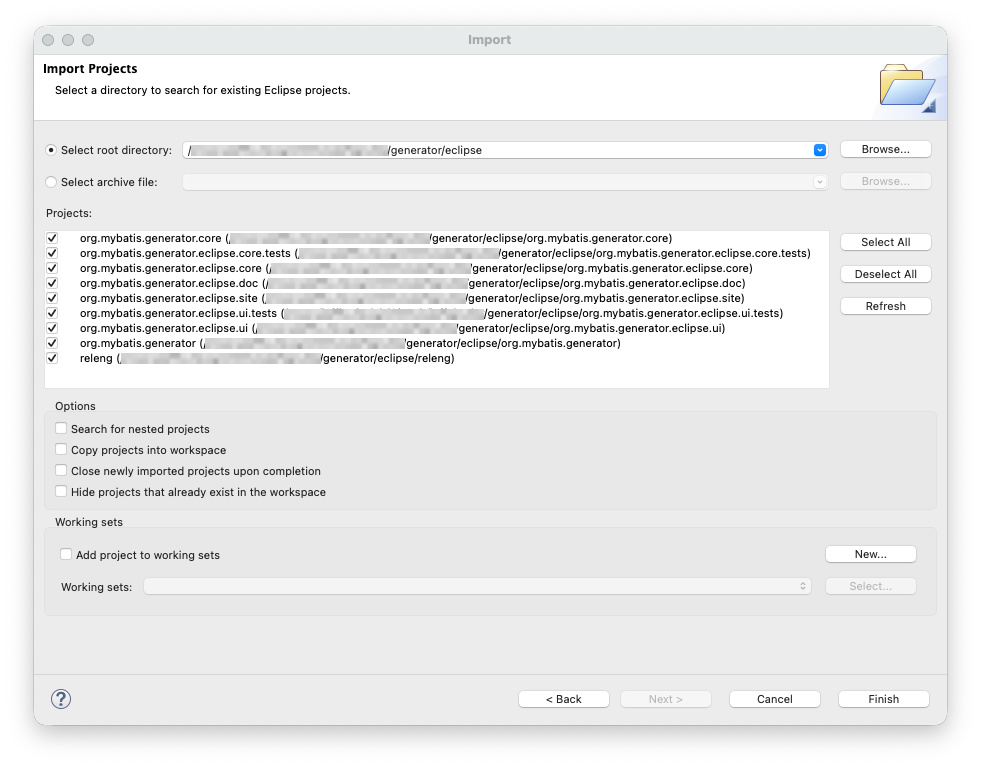
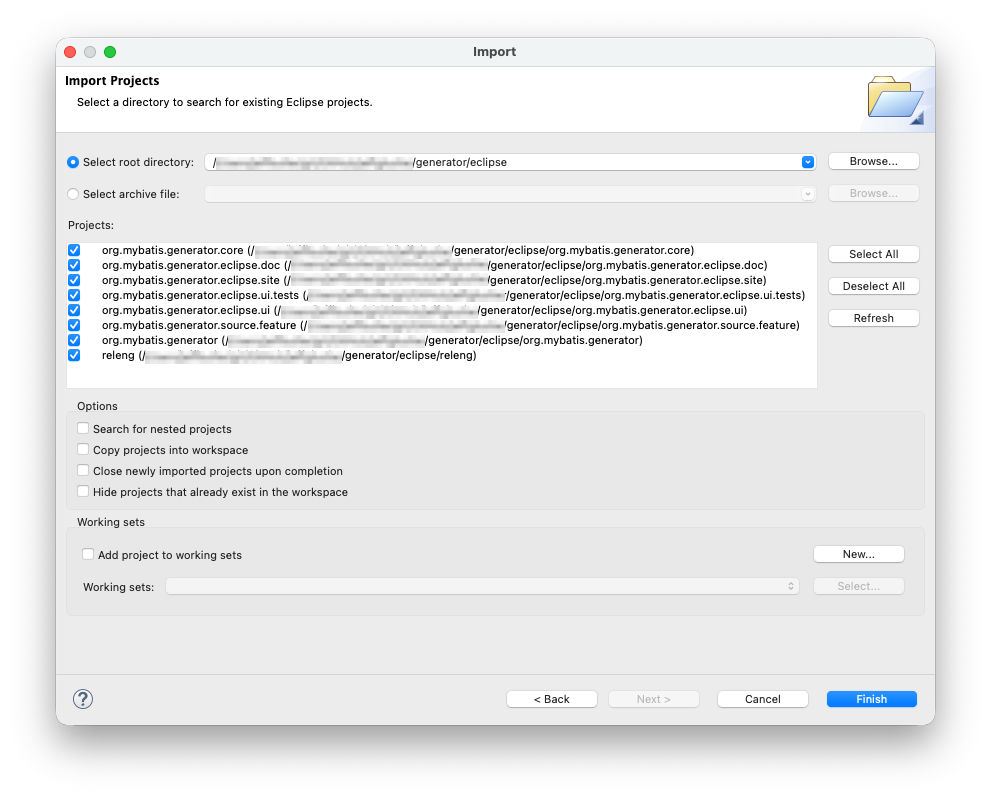
Documentation Updates

diff --git a/eclipse/org.mybatis.generator.eclipse.doc/html-src/eclipseui/buildingFromSource.html b/eclipse/org.mybatis.generator.eclipse.doc/html-src/eclipseui/buildingFromSource.html
@@ -37,10 +37,10 @@ projects into your IDE as Maven projects - it will not work. The projects need t
 regular Eclipse projects.</p>
 
 <h2>Feature Structure</h2>
-<p>There are nine total projects that makeup the feature. Some projects are just for build support and testing.</p> 
-<p>The published MBG feature is composed of five different Eclipse projects - a feature project,
-and four plugin projects.
-The feature project groups the four plugins together for easy installation.
+<p>There are eight total projects that makeup the feature. Some projects are just for build support and testing.</p> 
+<p>The published MBG feature is composed of five different Eclipse projects - two feature projects,
+and three plugin projects.
+One feature project groups the three plugins together for easy installation, the second feature project contains source code.
 Those projects are structured as follows:</p>
 <table cellspacing="0" cellpadding="5" border="1">
   <tr>
@@ -49,7 +49,11 @@ Those projects are structured as follows:</p>
   </tr>
   <tr>
     <td><code>org.mybatis.generator</code></td>
-    <td>This project is the Eclipse feature project for MBG.</td>
+    <td>This project is the main Eclipse feature project for MBG.</td>
+  </tr>
+  <tr>
+    <td><code>org.mybatis.generator.source.feature</code></td>
+    <td>This project is the source feature for the plugin code.</td>
   </tr>
   <tr>
     <td><code>org.mybatis.generator.core</code></td>
@@ -58,12 +62,6 @@ Those projects are structured as follows:</p>
       There is an Ant build file in this plugin (copySource.xml) that performs the copy.
       If you find a bug in the core MBG, you must make the correction in the
       core source tree - NOT this plugin.</td>
-  </tr>
-  <tr>
-    <td><code>org.mybatis.generator.eclipse.core</code></td>
-    <td>This plugin holds Java support classes for the other plugins.  This plugin does not contribute
-        to the Eclipse user interface.  This plugin includes classes for Java file
-        merging, and Eclipse implementations of the MBG callback interfaces.</td>
   </tr>
   <tr>
     <td><code>org.mybatis.generator.eclipse.doc</code></td>
@@ -89,7 +87,7 @@ Those projects are structured as follows:</p>
 </table>
 
 <h2>Other Projects</h2>
-<p>There are four other Eclipse projects that are used in the build of the feature:</p>
+<p>There are three other Eclipse projects that are used in the build of the feature:</p>
 <table cellspacing="0" cellpadding="5" border="1">
   <tr>
     <th>Project</th>
@@ -98,11 +96,6 @@ Those projects are structured as follows:</p>
   <tr>
     <td><code>org.mybatis.generator.eclipse.site</code></td>
     <td>This project is a P2 publishing site that is used to publish the feature.</td>
-  </tr>
-  <tr>
-    <td><code>org.mybatis.generator.eclipse.core.tests</code></td>
-    <td>This project is a plugin fragment that holds unit tests for the
-        org.mybatis.generator.eclipse.core plugin.</td>
   </tr>
   <tr>
     <td><code>org.mybatis.generator.eclipse.ui.tests</code></td>
@@ -139,7 +132,7 @@ familiar with git and the Eclipse plug-in development environment (PDE).</p>
         (File&gt;Import&gt;General&gt;Existing Projects into Workspace)
       </li>
       <li>Set the root directory to the "eclipse" sub-directory in your Git clone</li>
-      <li>Select all nine projects, do not copy the projects into
+      <li>Select all eight projects, do not copy the projects into
         your workspace.
         The filled out wizard looks similar to this: <br />
         <p><img src="importWizard.png" alt="Eclipse Project Import Wizard"/></p>
@@ -147,11 +140,11 @@ familiar with git and the Eclipse plug-in development environment (PDE).</p>
       <li>Press "Finish", wait for the workspace to build.</li>
     </ol>
   </li>
-  <li>The project includes Eclipse target platform definition files. The purpose is to set the minimum version
+  <li>The "releng" project includes an Eclipse target platform definition file. The purpose is to set the minimum version
    of Eclipse supported by the feature and to ensure that you do not inadvertently use Eclipse features from later
    versions. The target platform files also provide access to dependencies needed during the build. 
-   Target platform files are in the <code>releng</code> project. To activate
-   the target platform, open the proper target file and click on the link that says "Set as active target platform". This action
+   To activate
+   the target platform, open the target file and click on the link that says "Set as active target platform". This action
    may take a few minutes to complete. The README in the releng project contains information about which target platform file to use.
   </li>
   <li>You will likely have workspace errors due to missing source code in the
@@ -222,20 +215,13 @@ familiar with git and the Eclipse plug-in development environment (PDE).</p>
       to the source lookup path to solve that issue.</p>
     </td>
   </tr>
-  <tr>
-    <td><code>org.mybatis.generator.eclipse.core.merge.JavaFileMerger</code></td>
-    <td>This class implements the Java file merge function.  You can set a breakpoint
-      in the <code>getMergedSource</code> method to follow the merging process.
-    </td>
-  </tr>
 </table>
 
 <h2>Running the Unit Tests</h2>
-<p>The plugin fragment project <code>org.mybatis.generator.eclipse.core.tests</code>
+<p>The plugin fragment project <code>org.mybatis.generator.eclipse.ui.tests</code>
 contains unit tests for many of the classes in the
-<code>org.mybatis.generator.eclipse.core</code> project.
-These tests cover the core functionality of Java code merging and workspace file resolution
-that is an extra capability added by the eclipse feature.</p>
+<code>org.mybatis.generator.eclipse.ui</code> project.
+These tests cover the core plugin functionality of workspace file resolution.</p>
 <p>The tests will be run during a maven build of the feature, but you can also run them
 directly in eclipse. Running these unit tests is similar to running regular unit tests in
 eclipse with the following exceptions:</p>

diff --git a/eclipse/org.mybatis.generator.eclipse.doc/html-src/eclipseui/manualTesting.html b/eclipse/org.mybatis.generator.eclipse.doc/html-src/eclipseui/manualTesting.html
@@ -169,9 +169,9 @@ create table mbgtest.i (id int not null, description varchar(50), primary key(id
 create table mbgtest.j (id int not null, description varchar(50), primary key(id));
       </pre>
     </li>
-    <li>Open the launch configuration for this new configuration file.  The launch
+    <li>Open the run configuration for this new configuration file.  The run
         configuration should be named MBGTest-generatorConfig.xml</li>
-    <li>Alter the launch configuration to run the script before code generation:
+    <li>Alter the run configuration to run the script before code generation:
       <ul>
         <li>Open the SQL Script tab</li>
         <li>Use the "Workspace..." button to navigate to the new SQL script</li>
@@ -184,7 +184,7 @@ create table mbgtest.j (id int not null, description varchar(50), primary key(id
         <li>Add an environment variable - set "driver" to "org.hsqldb.jdbcDriver"</li>
       </ul>
     </li>
-    <li>Run the launch configuration</li>
+    <li>Run the run configuration</li>
     <li>Verify that code is generated in the two different source folders.  Code for table "a"
         should be in the "src" folder, code for tables "b" through "j" should be in the
         "generatedsrc" folder.  Verify that there are no compilation errors or warnings.</li>
@@ -214,7 +214,7 @@ create table mbgtest.j (id int not null, description varchar(50), primary key(id
   <li>Right click on the configuration file, and then
       take the option "Run As&gt;Run MyBatis Generator"</li>
   <li>Verify that <code>gen.model.A</code> now extends <code>BaseModel</code>. You should not have needed to
-      alter the launch configuration classpath - the launch configuration automatically adds the project
+      alter the run configuration classpath - the run configuration automatically adds the project
       to the classpath of the generator.</li>
   <li>Also verify that there are no errors in <code>gen.model.A</code> - the generator
      should not have generated a get and set method that override the final
@@ -255,7 +255,7 @@ create table mbgtest.j (id int not null, description varchar(50), primary key(id
   <li>Delete the Java class <code>gen.src.model.A</code>.  There will now be errors in the
       workspace.</li>
   <li>Right click on the new <code>build.xml</code> file, then select the
-      menu option "Run As&gt;Ant Build...".  You should see the Ant launch configuration
+      menu option "Run As&gt;Ant Build...".  You should see the Ant run configuration
       dialog open.</li>
   <li>Select the "JRE" tab, then select the "Run in the same JRE as the workspace" radio
       button.</li>
@@ -266,7 +266,7 @@ create table mbgtest.j (id int not null, description varchar(50), primary key(id
     JRE as the workspace. 
   </li>
   <li>Right click on the new <code>build.xml</code> file, then select the
-      menu option "Run As&gt;Ant Build...".  You should see the Ant launch configuration
+      menu option "Run As&gt;Ant Build...".  You should see the Ant run configuration
       dialog open.</li>
   <li>Select the "Classpath" tab, then add the HSQLDB driver to "User Entries"</li>
   <li>Press the "Run" button</li>

diff --git a/eclipse/org.mybatis.generator.eclipse.doc/html-src/eclipseui/publishing.html b/eclipse/org.mybatis.generator.eclipse.doc/html-src/eclipseui/publishing.html
@@ -47,17 +47,14 @@ access when running this build.</p>
        the updated artifacts for uploading to GitHub.
    </li>
    <li>Copy all the files from <code>target/p2-composite-repo</code> into your git clone of the update site,
-	   then commit the changes. There are typically 17 files uploaded.</li>
+	   then commit the changes. There are typically 17-20 files uploaded.</li>
    <li>After the version is published, you should update the version number in the
        following files:
        <ul>
          <li><code>org.mybatis.generator/feature.xml</code></li>
+		 <li><code>org.mybatis.generator.source.feature/feature.xml</code></li>
          <li><code>org.mybatis.generator.core/META-INF/MANIFEST.MF</code></li>
          <li><code>org.mybatis.generator.core/pom.xml</code></li>
-         <li><code>org.mybatis.generator.eclipse.core/META-INF/MANIFEST.MF</code></li>
-         <li><code>org.mybatis.generator.eclipse.core/pom.xml</code></li>
-         <li><code>org.mybatis.generator.eclipse.core.tests/META-INF/MANIFEST.MF</code></li>
-         <li><code>org.mybatis.generator.eclipse.core.tests/pom.xml</code></li>
          <li><code>org.mybatis.generator.eclipse.doc/META-INF/MANIFEST.MF</code></li>
          <li><code>org.mybatis.generator.eclipse.doc/pom.xml</code></li>
          <li><code>org.mybatis.generator.eclipse.parent/pom.xml</code></li>

diff --git a/eclipse/org.mybatis.generator.eclipse.doc/html-src/eclipseui/releasenotes.html b/eclipse/org.mybatis.generator.eclipse.doc/html-src/eclipseui/releasenotes.html
@@ -26,6 +26,20 @@
 </head>
 <body>
 <h1>MyBatis Generator Eclipse Feature Release Notes</h1>
+<h2>Version 2.0.0</h2>
+<ul>
+  <li>We're removed the Eclipse based Java merger in favor of the Java merger in the base project which is well tested and more capable
+    than the older Eclipse merger. You will hopefully experience no impact form this. Please let us know if something is broken.
+  </li>
+  <li>We've removed the custom logging implementation selection buttons in the run configuration. The core product has standardized on
+    commons-logging which should allow you to configure logging any way you desire.
+  </li>
+  <li>The core library has some runtime dependencies on libraries that are not included in most Eclipse installations. You will see that
+	some dependency plugins are also installed when you install the feature.</li>
+  <li>The Generator feature now requires Java 17 minimum</li>
+  <li>The minimum Eclipse version is now 4.33 (2024-09)</li>
+</ul>
+
 <h2>Version 1.4.2</h2>
 <ul>
   <li>Removed Log4J Version 1.x from the UI.</li>

diff --git a/eclipse/org.mybatis.generator.eclipse.doc/html-src/eclipseui/usingTheLauncher.html b/eclipse/org.mybatis.generator.eclipse.doc/html-src/eclipseui/usingTheLauncher.html
@@ -53,11 +53,11 @@ of the launch.  Classpath entries should be added for the following things:</p>
       itself to the launch classpath as it will already be added by the launcher)</li>
 </ul>
 <p>The launcher will automatically add the Java project containing the configuration file to the
-classpath.</p>
+classpath if you create the configuration using the context menu on a configuration file.</p>
 <p>Adding entries to the launcher classpath is generally preferable to using
 a <code>&lt;classPathEntry&gt;</code> configuration element in the generator
 configuration file.  However, if you use a dependency JAR that relies on native code
-(such as some DB2 drivers) it would be better to use the  
+(such as some older DB2 drivers) it would be better to use the  
 <code>&lt;classPathEntry&gt;</code> configuration element.  This because native
 code can only be loaded by a single classloader and it is likely that
 the generator classloader will be garbage collected before the launch classloader.</p>
